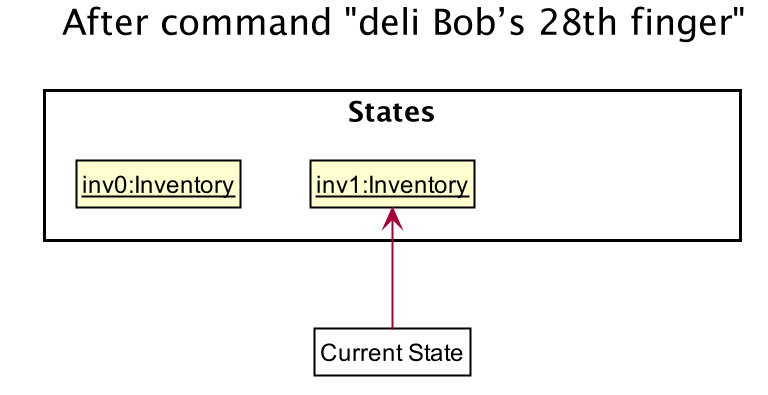
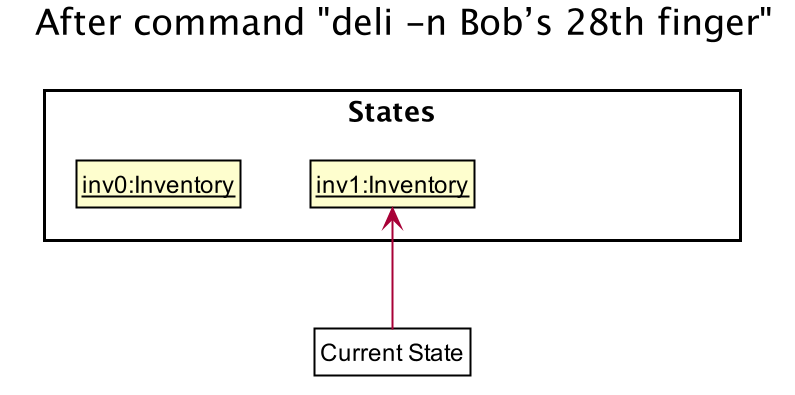
update undo/redo dg documentation

diff --git a/docs/DeveloperGuide.md b/docs/DeveloperGuide.md
@@ -349,14 +349,14 @@ the initial inventory state, and the `currentStatePointer` pointing to that sing
 
 ![UndoRedoState0](images/UndoRedoState0.png)
 
-Step 2. The user executes `deli Bob’s 28th finger` (a `DeleteItemCommand`) command to delete the matching item in
+Step 2. The user executes `deli -n Bob’s 28th finger` (a `DeleteItemCommand`) command to delete the matching item in
 the inventory. The `deli` command calls `Model#commitInventory()`, causing the modified state of the inventory
-after the `deli Bob’s 28th finger` command executes to be saved in the `inventoryStateList`, and the
+after the `deli -n Bob’s 28th finger` command executes to be saved in the `inventoryStateList`, and the
 `currentStatePointer` is shifted to the newly inserted inventory state.
 
 ![UndoRedoState1](images/UndoRedoState1.png)
 
-Step 3. The user executes `addi Bob’s 6th regret -q 8` (a `AddItemCommand`) to add a new item.
+Step 3. The user executes `addi -n Bob’s 6th regret -q 8` (a `AddItemCommand`) to add a new item.
 The `addi` command also calls `Model#commitInventory()`, causing another modified inventory state to be
 saved into the `inventoryStateList`.
 
@@ -391,13 +391,13 @@ rather than attempting to perform the redo.
 
 Step 5. The user then decides to execute the command `listi`. Commands that do not modify the inventory, such as 
 `listi`, will usually not call `Model#commitInventory()`, `Model#undoInventory()` or `Model#redoInventory()`.
-Thus, the `inventoryinatorStateList` remains unchanged.
+Thus, the `inventoryStateList` remains unchanged.
 
 ![UndoRedoState4](images/UndoRedoState4.png)
 
 Step 6. The user executes `clear`, which calls `Model#commitInventory()`. Since the `currentStatePointer`
 is not pointing at the end of the `inventoryStateList`, all inventory states after the `currentStatePointer`
-will be purged. Reason: It no longer makes sense to redo the `addi Bob’s 6th regret -q 8` command. This is the
+will be purged. Reason: It no longer makes sense to redo the `addi -n Bob’s 6th regret -q 8` command. This is the
 behavior that most modern desktop applications follow.
 
 ![UndoRedoState5](images/UndoRedoState5.png)
